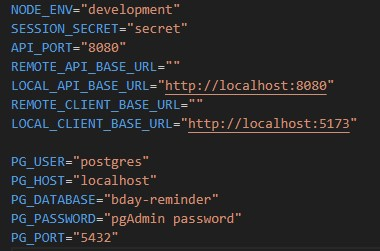
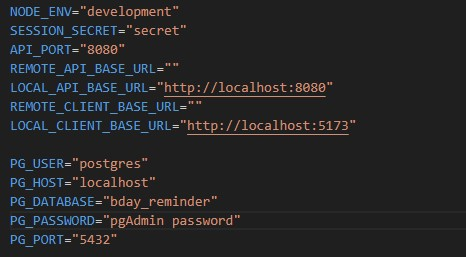
Updated README.md

Changed region(s): [[0.0, 0.0, 0.9553, 0.5299], [0.0, 0.6135, 0.6368, 0.9761]]

diff --git a/README.md b/README.md
@@ -30,7 +30,7 @@ An Axios HTTP client integrates a public API - in my case Name Day API. The app 
 Moreover an Axios client integrates a private API (authentication and birthdays management).
 
 User data are persist using a PostgreSQL database.\
-An application used CRUD methods to manipulate data in the database and data validation applied on frontend and backend.\
+An application using CRUD methods to manipulate data in the database. User data are validated at the browser level (frontend) and server level (backend).\
 Error handling - console log (for developers) and user-relevant errors displaying on the pages.
 
 ### How to start
@@ -48,16 +48,16 @@ Steps to run the project locally:
 - open the bday-reminder app solution in Visual Studio Code or related,
 - create file named .env and fill it like .env.example file (or see below):
   ![](./readme/env.jpg)
-- to install required dependencies run below script:
+- to install required dependencies run the following script:
 
 ```bash
   npm install
 ```
 
 - download the PostgreSQL Installer https://www.postgresql.org/download/windows/ and create a new pgAdmin account,
-- create a new database called e.g. "bday-reminder" in pgAdmin,
+- create a new database called e.g. "bday_reminder" in pgAdmin,
 - run the queries.sql code in pgAdmin Query Tool to create required tables,
-- to run the project run below script:
+- to run the project run the following script:
 
 ```bash
   npm start
